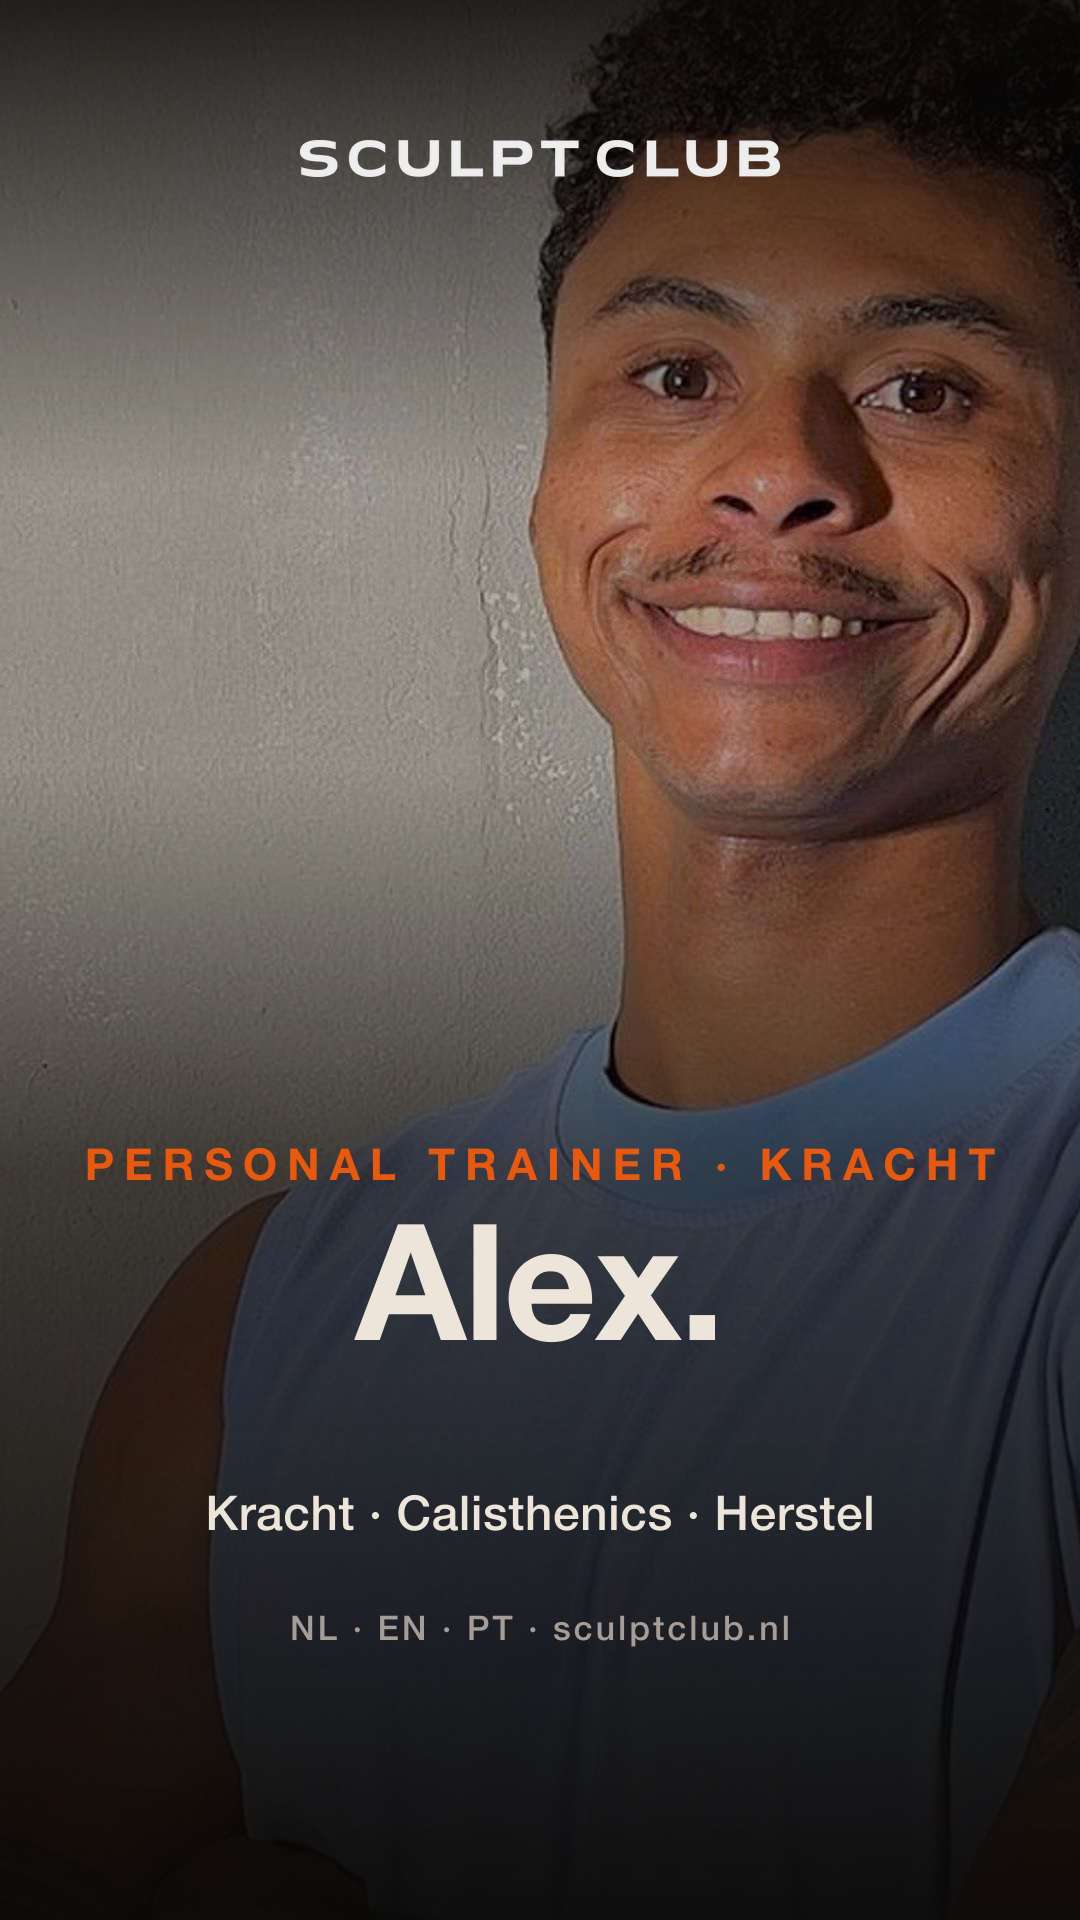
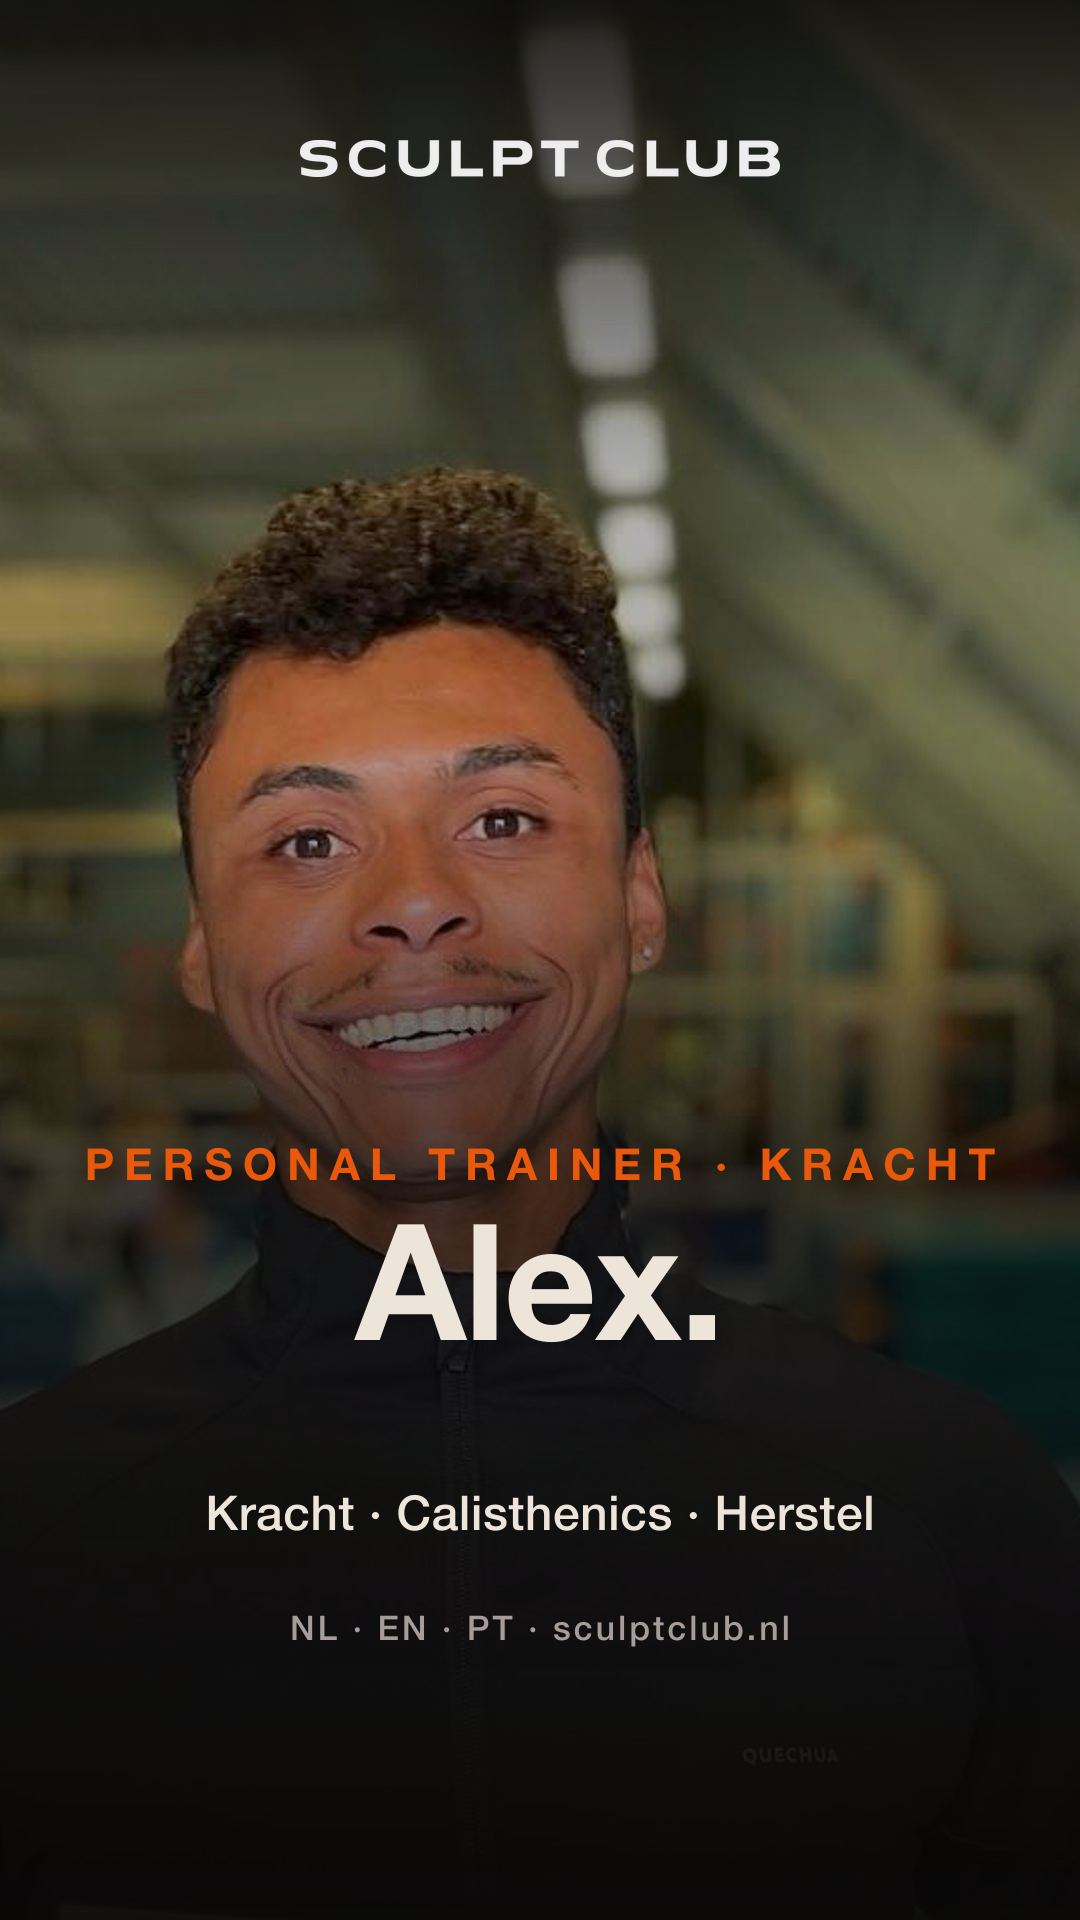
content(social): sell the transformation, not the hour, in the Alex pack
The Alex spotlight still sold €69/60min in three places while the site now
leads with SCULPT TRANSFORMATION vanaf €299 / 4 weken. The price was also
BAKED INTO the rendered slide (build-tiktok-post.mjs line 529), so fixing
only the caption would have left the image contradicting the site.

- social-packs.ts: new IG + TikTok captions (outcome first, €299 / 4 weken
  incl. onbeperkt Open Gym, probeer eerst gratis, MAKE IT WORK), slide title
- build-tiktok-post.mjs: slide CTA €69/60min -> Vanaf €299 / 4 weken
- re-rendered the 6 Alex frames from the same script and photos
- public/social/.../index.html: legacy pack page copy brought in line
- social-content.ts: Alex's two content briefs (other trainers untouched)
- removed em dashes from published social titles per the operator rule

diff --git a/src/data/social-packs.ts b/src/data/social-packs.ts
@@ -69,7 +69,7 @@ export const SOCIAL_PACKS: SocialPack[] = [
     },
     slides: [],
     tiktok: {
-      title: "Tien seconden stil op twee dumbbells \u2014 Alex, static calisthenics, Amsterdam",
+      title: "Tien seconden stil op twee dumbbells. Alex, static calisthenics, Amsterdam",
       description:
         "Tien seconden stil. Op twee dumbbells.\n\nDit is Alex, static calisthenics, achtergrond in gymnastiek. Geen trucje, geen montage: gewoon controle die je opbouwt, rep voor rep.\n\nVan je eerste push-up tot een strakke handstand. Zo coacht hij het, in onze priv\u00e9 studio in de Jordaan.\n\n@almeidalexjr",
       hashtags:
@@ -163,7 +163,7 @@ export const SOCIAL_PACKS: SocialPack[] = [
       { name: "cta", label: "3", title: "Laat je squat checken · /gratis-intake" },
     ],
     tiktok: {
-      title: "3 fouten in je squat — welke maak jij?",
+      title: "3 fouten in je squat: welke maak jij?",
       description:
         "Knieën die naar binnen vallen · romp die voorover valt · hielen die los komen. De drie meest gemaakte fouten, en de fix.\n\nEerste sessie 1-op-1 met je trainer in onze privé studio aan de Egelantiersgracht.\n\nPlan je gratis intake → sculptclub.nl/gratis-intake",
       hashtags: "#squat #squatform #personaltrainingamsterdam #amsterdamgym #jordaan",
@@ -182,18 +182,18 @@ export const SOCIAL_PACKS: SocialPack[] = [
     ctaUrl: "sculptclub.nl/nl/plan-gratis-intake-met-alex",
     slides: [
       { name: "intro", label: "1", title: "Intro · Alex · Kracht/Cali/Herstel" },
-      { name: "approach", label: "2", title: "Aanpak · Functioneel · €69/60min" },
+      { name: "approach", label: "2", title: "Aanpak · Functioneel · 4 weken" },
       { name: "cta", label: "3", title: "Plan een sessie · /plan-gratis-intake-met-alex" },
     ],
     tiktok: {
-      title: "Maak kennis met Alex — personal trainer in de Jordaan",
+      title: "SCULPT TRANSFORMATION met Alex in de Jordaan",
       description:
-        "Alex traint je 1-op-1 in onze privé studio aan de Egelantiersgracht.\n\nKracht · Calisthenics · Hersteltraining. NL · EN · PT.\n\n€69 per 60 min · vrijblijvende intake.\n\nPlan een sessie met Alex → sculptclub.nl/nl/plan-gratis-intake-met-alex",
+        "Vier weken gericht trainen met een eigen programma, en zien dat het werkt.\n\nSCULPT TRANSFORMATION vanaf €299 per 4 weken, inclusief onbeperkt Open Gym.\n\nMet Alex in onze privé studio aan de Egelantiersgracht. Kracht · Calisthenics · Hersteltraining. NL · EN · PT. Alex is zelfstandig en spreekt de exacte prijs met je af bij de gratis intake.\n\nProbeer eerst gratis → sculptclub.nl/nl/plan-gratis-intake-met-alex\n\nMAKE IT WORK.",
       hashtags: "#personaltrainingamsterdam #amsterdamgym #jordaan #calisthenics #krachttraining",
     },
     instagram: {
       caption:
-        "Maak kennis met Alex, onze personal trainer voor kracht, calisthenics en hersteltraining.\n\nFunctionele bewegingen · doelgerichte programmering · meetbaar resultaat.\n\nNL · EN · PT · €69 per 60 min.\n\nPlan een sessie · link in bio 👆",
+        "Vier weken gericht trainen met een eigen programma, en zien dat het werkt.\n\nSCULPT TRANSFORMATION vanaf €299 per 4 weken, inclusief onbeperkt Open Gym.\n\nMet Alex, onze personal trainer voor kracht, calisthenics en hersteltraining. NL · EN · PT. Alex is zelfstandig en spreekt de exacte prijs met je af bij de gratis intake.\n\nProbeer eerst gratis. Link in bio 👆\n\nMAKE IT WORK.",
       hashtags: "#personaltrainingamsterdam #amsterdamgym #jordaan #calisthenics #krachttraining",
     },
   },
@@ -232,7 +232,7 @@ export const SOCIAL_PACKS: SocialPack[] = [
       { name: "location", label: "3", title: "Locatie · Jordaan" },
     ],
     tiktok: {
-      title: "🧡 Huur jouw eigen PT-studio in de Jordaan — €12/uur",
+      title: "🧡 Huur jouw eigen PT-studio in de Jordaan · €12/uur",
       description:
         "Trainers, eigen sleutel, eigen tarief, eigen klanten.\n\nJe houdt 100% van je tarief · geen contract · dagelijks geopend 06:00 – 22:00.\n\nProbeer gratis → sculptclub.nl/voor-trainers",
       hashtags: "#personaltraineramsterdam #studiohuren #zzpfitness #jordaan #ptamsterdam",

diff --git a/public/social/trainer-spotlight-alex-001/index.html b/public/social/trainer-spotlight-alex-001/index.html
@@ -104,7 +104,7 @@
 
 Zijn ding is static calisthenics: de onderdelen waarbij je stilstaat en het juist zwaarder wordt. Van een eerste nette push-up naar een handstand die je vasthoudt. Die controle gebruik je daarna overal.
 
-Hij traint op prestatie, spieropbouw en herstel, in het Nederlands, Engels en Portugees. €69 per 60 minuten. De intake is gratis.
+Hij traint op prestatie, spieropbouw en herstel, in het Nederlands, Engels en Portugees. Een SCULPT TRANSFORMATION van vier weken begint vanaf €299, inclusief onbeperkt Open Gym. De intake is gratis.
 
 Alex werkt zelfstandig: hij huurt de studio per uur en je maakt de afspraak rechtstreeks met hem.
 
@@ -159,12 +159,12 @@ Bij hem trainen? Laat het weten via WhatsApp, dan brengen we je in contact.
 <script>
 const COPY = {
   tiktok: {
-    title: "Maak kennis met Alex — personal trainer in de Jordaan",
-    description: "Alex traint je 1-op-1 in onze privé studio aan de Egelantiersgracht.\n\nKracht · Calisthenics · Hersteltraining. NL · EN · PT.\n\n€69 per 60 min · vrijblijvende intake.\n\nPlan een sessie met Alex → sculptclub.nl/nl/plan-gratis-intake-met-alex",
+    title: "SCULPT TRANSFORMATION met Alex in de Jordaan",
+    description: "Vier weken gericht trainen met een eigen programma, en zien dat het werkt.\n\nSCULPT TRANSFORMATION vanaf €299 per 4 weken, inclusief onbeperkt Open Gym.\n\nMet Alex in onze privé studio aan de Egelantiersgracht. Kracht · Calisthenics · Hersteltraining. NL · EN · PT. Alex is zelfstandig en spreekt de exacte prijs met je af bij de gratis intake.\n\nProbeer eerst gratis → sculptclub.nl/nl/plan-gratis-intake-met-alex\n\nMAKE IT WORK.",
     hashtags: "#personaltrainingamsterdam #amsterdamgym #jordaan #calisthenics #krachttraining"
   },
   instagram: {
-    caption: "Maak kennis met Alex — onze personal trainer voor kracht, calisthenics en hersteltraining.\n\nFunctionele bewegingen · doelgerichte programmering · meetbaar resultaat.\n\nNL · EN · PT · €69 per 60 min.\n\nPlan een sessie · link in bio 👆",
+    caption: "Vier weken gericht trainen met een eigen programma, en zien dat het werkt.\n\nSCULPT TRANSFORMATION vanaf €299 per 4 weken, inclusief onbeperkt Open Gym.\n\nMet Alex, onze personal trainer voor kracht, calisthenics en hersteltraining. NL · EN · PT. Alex is zelfstandig en spreekt de exacte prijs met je af bij de gratis intake.\n\nProbeer eerst gratis. Link in bio 👆\n\nMAKE IT WORK.",
     hashtags: "#personaltrainingamsterdam #amsterdamgym #jordaan #calisthenics #krachttraining"
   }
 };
@@ -188,7 +188,7 @@ function renderCopySection(platform) {
 
 const slidesData = [
   { name: "intro",    label: "1", title: "Intro · Alex · Kracht/Cali/Herstel" },
-  { name: "approach", label: "2", title: "Aanpak · Functioneel · €69/60min" },
+  { name: "approach", label: "2", title: "Aanpak · Functioneel · 4 weken" },
   { name: "cta",      label: "3", title: "Plan een sessie · /plan-gratis-intake-met-alex" }
 ];
 

diff --git a/src/data/social-content.ts b/src/data/social-content.ts
@@ -441,7 +441,7 @@ export const SOCIAL_IDEAS: SocialIdea[] = [
       facts: [
         "Specialism: Strength · Calisthenics · Recovery",
         "Languages: NL · EN · PT",
-        "Rate: €69 per 60 min",
+        "Offer: SCULPT TRANSFORMATION from €299 / 4 weeks, unlimited Open Gym included",
         "First intake free",
       ],
       hookConcept: "Alex teaches the muscle-up — even if you can't do a pull-up yet",
@@ -1328,7 +1328,7 @@ Reel: 30s — intro + coaching demo`,
       facts: [
         "Specialism: Strength · Calisthenics · Recovery",
         "Languages: NL · EN · PT",
-        "Rate: €69 per 60 min",
+        "Offer: SCULPT TRANSFORMATION from €299 / 4 weeks, unlimited Open Gym included",
         "First intake free",
         "Calisthenics specialist — uncommon in Amsterdam PT scene",
       ],

diff --git a/src/lib/image-color-manifest.ts b/src/lib/image-color-manifest.ts
@@ -10,7 +10,7 @@
 // Why not blur placeholder: see docs/PERF-EXPERIMENTS-2026-05-07.md.
 // (TL;DR: SVG feGaussianBlur regressed Lighthouse mobile LCP by 6-9s.)
 //
-// Generated: 2026-09-21T14:16:57.890Z
+// Generated: 2026-09-21T14:29:51.943Z
 // Total entries: 103
 // Skipped (unsupported format): 2
 
